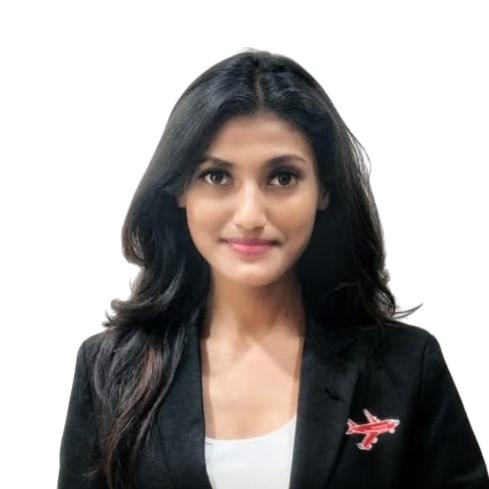
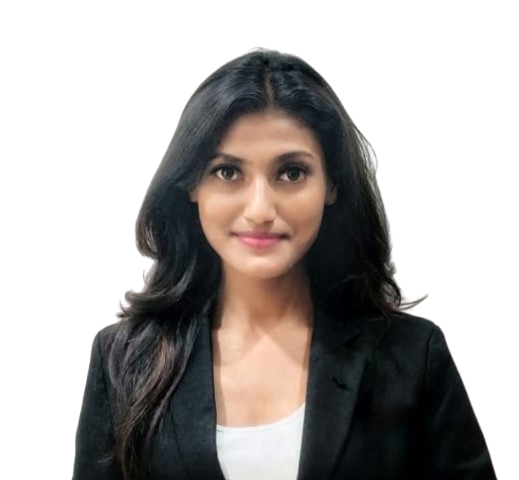
Updated founder section

diff --git a/src/components/founder/Founder.module.css b/src/components/founder/Founder.module.css
@@ -17,9 +17,7 @@
 .founder>img
 {
     height: 200px;
-    width: fit-content;   
-    background-color: rgba(0,0,0,0.1);
-    border-radius: 50%;
+    width: fit-content;
 }
 
 .founder
